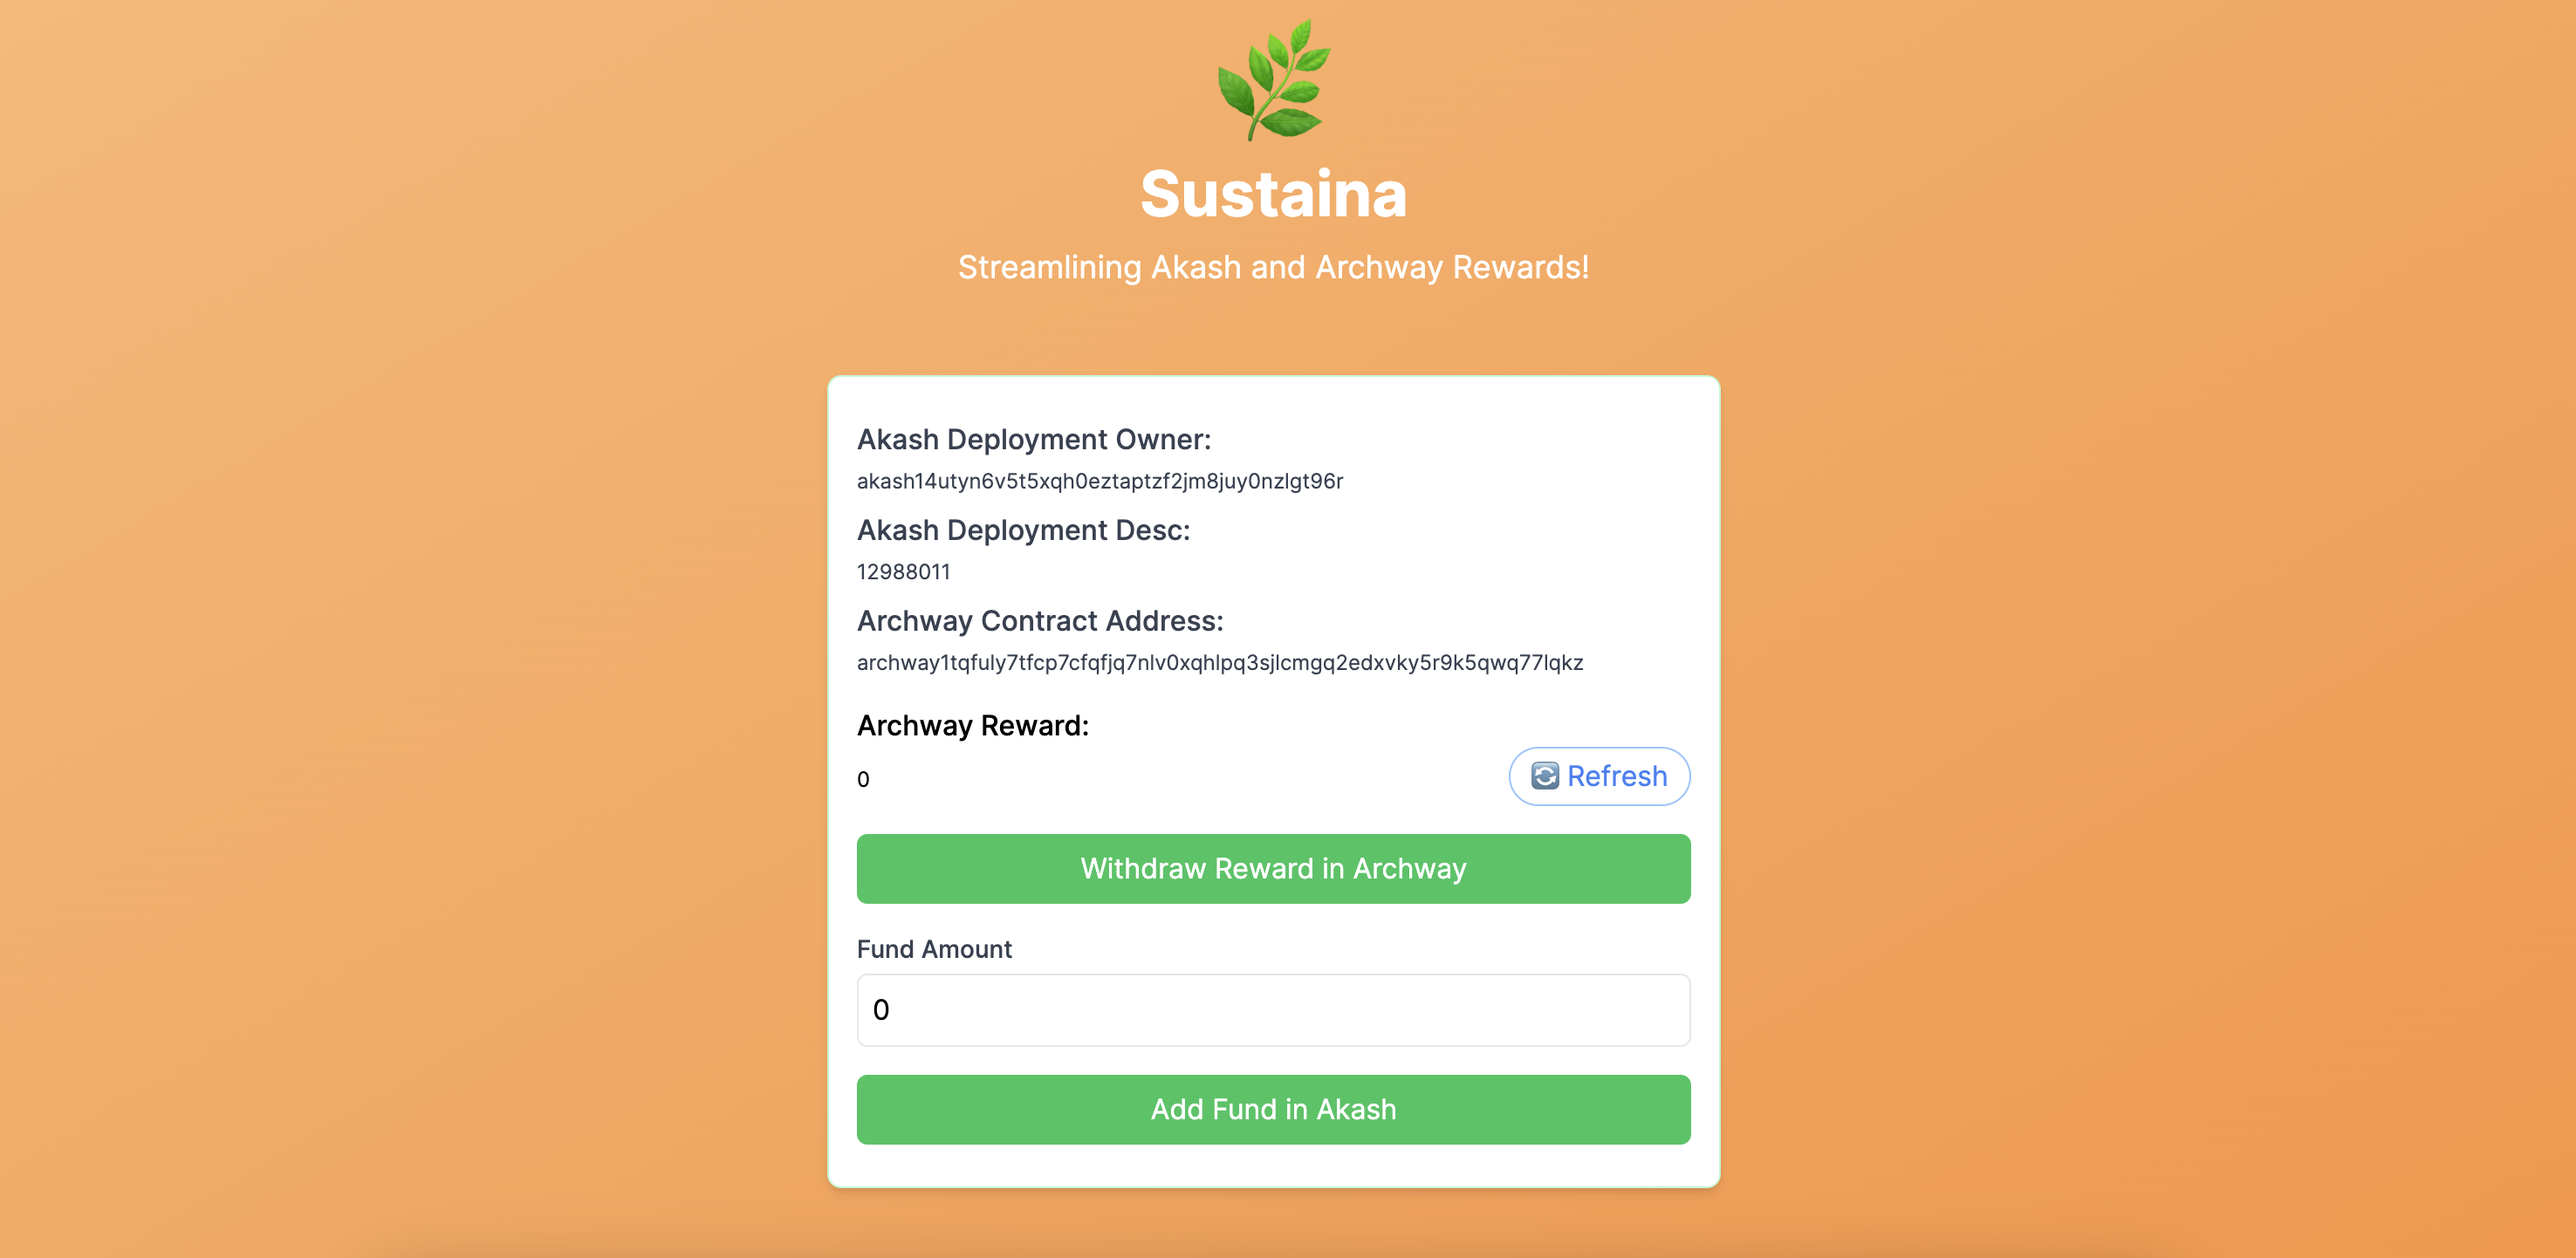
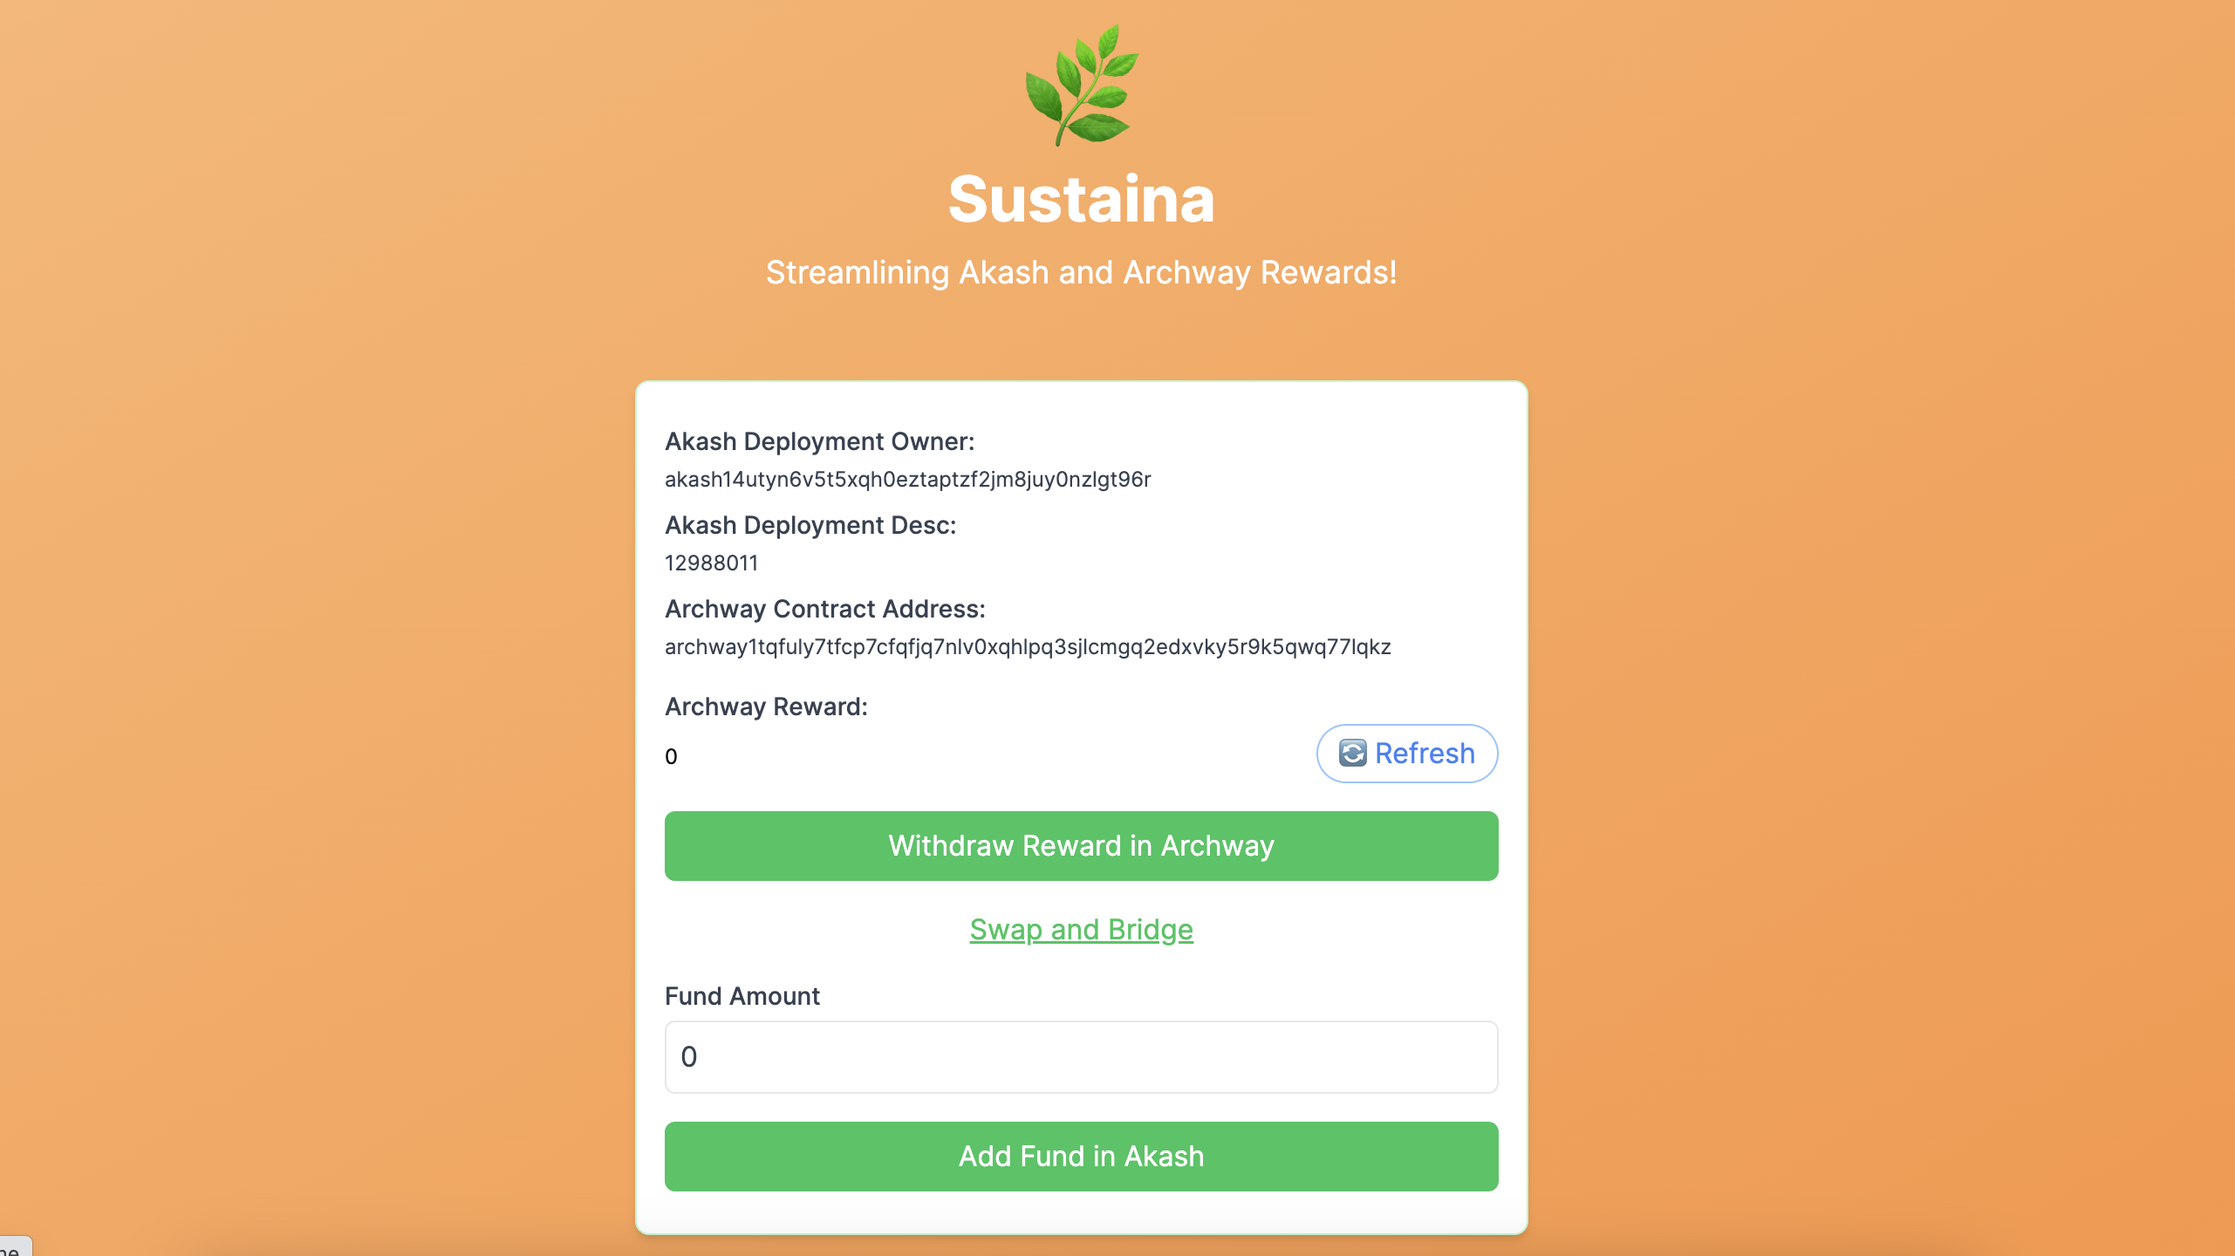
sligh modify frontend

Changed region(s): [[0.281, 0.2812, 0.687, 1.0], [0.3435, 0.0, 0.6245, 0.25], [0.0, 0.9688, 0.0312, 1.0]]

diff --git a/app/src/pages/index.tsx b/app/src/pages/index.tsx
@@ -19,6 +19,7 @@ export default function Home() {
   const [fund, setFund] = useState(0);
 
   const [isModalOpen, setIsModalOpen] = useState(false);
+  const [modalText, setModalText] = useState("");
 
   return (
     <div
@@ -59,7 +60,7 @@ export default function Home() {
                   name="AkashDeploymentOwner"
                   value={akashDeploymentOwner}
                   onChange={(e) => setAkashDeploymentOwner(e.target.value)}
-                  className="mt-1 p-2 w-full border rounded-md"
+                  className="mt-1 p-2 w-full border rounded-md text-gray-700"
                   placeholder="Enter Akash Deployment Owner"
                 />
 
@@ -75,7 +76,7 @@ export default function Home() {
                   name="akashDeploymentDeseg"
                   value={akashDeploymentDesc}
                   onChange={(e) => setAkashDeploymentDesc(e.target.value)}
-                  className="mt-1 p-2 w-full border rounded-md"
+                  className="mt-1 p-2 w-full border rounded-md text-gray-700"
                   placeholder="Enter Akash Deployment Deseg"
                 />
 
@@ -91,7 +92,7 @@ export default function Home() {
                   name="archwayContractAddress"
                   value={archwayContractAddress}
                   onChange={(e) => setArchwayContractAddress(e.target.value)}
-                  className="mt-1 p-2 w-full border rounded-md"
+                  className="mt-1 p-2 w-full border rounded-md text-gray-700"
                   placeholder="Enter Archway Contract Address"
                 />
 
@@ -109,24 +110,26 @@ export default function Home() {
             {formMode === "dashboard" && (
               <div>
                 <div className="text-gray-700">
-                  <label className="block font-medium">
+                  <label className="block text-sm font-medium text-gray-700">
                     Akash Deployment Owner:
                   </label>
                   <p className="text-xs mt-1">{akashDeploymentOwner}</p>
 
-                  <label className="block font-medium mt-2">
+                  <label className="block text-sm font-medium text-gray-700 mt-2">
                     Akash Deployment Desc:
                   </label>
                   <p className="text-xs mt-1">{akashDeploymentDesc}</p>
 
-                  <label className="block font-medium mt-2">
+                  <label className="block text-sm font-medium text-gray-700 mt-2">
                     Archway Contract Address:
                   </label>
                   <p className="text-xs mt-1">{archwayContractAddress}</p>
                 </div>
 
                 <div className="mt-4">
-                  <label className="block font-medium">Archway Reward:</label>
+                  <label className="block text-sm font-medium text-gray-700">
+                    Archway Reward:
+                  </label>
                   <div className="flex items-center justify-between">
                     <p className="text-xs mt-1"> {archwayReward}</p>
                     <button
@@ -156,6 +159,15 @@ export default function Home() {
                   </div>
                 )}
 
+                <a
+                  href="https://app.osmosis.zone/"
+                  target="_blank"
+                  rel="noopener noreferrer"
+                  className="block text-green-500 hover:underline mt-4 text-center"
+                >
+                  Swap and Bridge
+                </a>
+
                 <label className="block text-sm font-medium text-gray-700 mt-4">
                   Fund Amount
                 </label>
@@ -163,7 +175,7 @@ export default function Home() {
                   type="number"
                   value={fund}
                   onChange={(e) => setFund(Number(e.target.value))}
-                  className="mt-1 p-2 w-full border rounded-md"
+                  className="mt-1 p-2 w-full border rounded-md text-gray-700"
                 />
 
                 <button
@@ -188,9 +200,7 @@ export default function Home() {
           ></div>
           <div className="relative z-10 bg-white py-4 px-6 rounded-xl shadow-lg max-w-xl w-full mx-4">
             <header className="flex justify-between items-center mb-4">
-              <h2 className="text-2xl font-bold text-gray-700">
-                Secret Sponsor Tx
-              </h2>
+              <h2 className="text-xl font-bold text-gray-700">Confirmation</h2>
               <button
                 onClick={() => setIsModalOpen(false)}
                 className="text-2xl text-gray-400 hover:text-gray-500"
@@ -198,7 +208,7 @@ export default function Home() {
                 &times;
               </button>
             </header>
-            <div className="space-y-4">Modal</div>
+            <div className="space-y-4">{modalText}</div>
           </div>
         </div>
       )}
